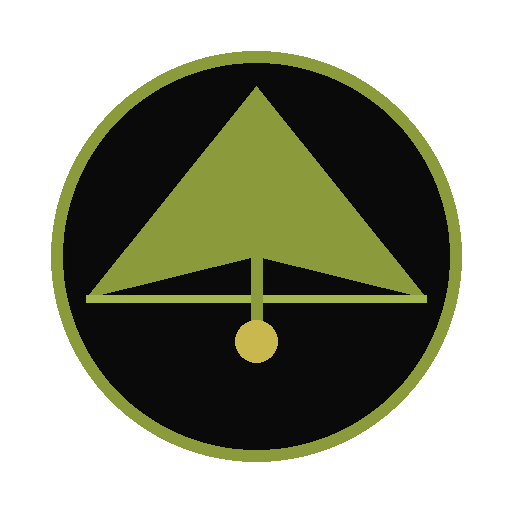
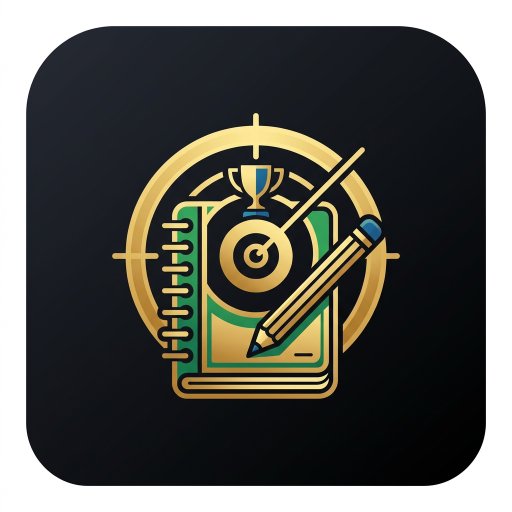
feat: adicionar questoes em branco e anuladas nos simulados cebraspe e atualizar icone do PWA

diff --git a/app-simulados.js b/app-simulados.js
@@ -28,9 +28,11 @@ function renderSimuladosList() {
         if (hasResult) {
             if (s.tipo === 'certo_errado') {
                 const erros = s.resultado.erros || 0;
-                const notaLiquida = s.resultado.acertos - erros;
+                const branco = s.resultado.branco || 0;
+                const anuladas = s.resultado.anuladas || 0;
+                const notaLiquida = s.resultado.acertos - erros + anuladas;
                 media = Math.round((notaLiquida / s.resultado.totalQ) * 100);
-                scoreText = `${s.resultado.acertos} C | ${erros} E | Líquido: ${notaLiquida}`;
+                scoreText = `${s.resultado.acertos} C | ${erros} E | ${branco} B | ${anuladas} Anul. | Líquido: ${notaLiquida}`;
             } else {
                 media = Math.round((s.resultado.acertos / s.resultado.totalQ) * 100);
                 scoreText = `${s.resultado.acertos}/${s.resultado.totalQ} acertos`;
@@ -117,7 +119,7 @@ document.getElementById('btnSalvarSimulado').addEventListener('click', () => {
         duracao: parseInt(document.getElementById('simuladoDuracaoInput').value) || 5,
         totalQuestoes: parseInt(document.getElementById('simuladoQuestoesInput').value) || 120,
         resultado: null,
-        disciplinas: conc.disciplinas.map(d => ({ nome: d.nome, questoes: 0, acertos: 0, erros: 0 }))
+        disciplinas: conc.disciplinas.map(d => ({ nome: d.nome, questoes: 0, acertos: 0, erros: 0, branco: 0, anuladas: 0 }))
     };
 
     if (editingSimuladoId) {
@@ -144,14 +146,18 @@ function openResultView(simId) {
 
     const isCebraspe = sim.tipo === 'certo_errado';
     document.getElementById('resultErrosContainer').style.display = isCebraspe ? 'block' : 'none';
+    document.getElementById('resultBrancoContainer').style.display = isCebraspe ? 'block' : 'none';
+    document.getElementById('resultAnuladasContainer').style.display = isCebraspe ? 'block' : 'none';
     document.getElementById('resultNotaLiquidaContainer').style.display = isCebraspe ? 'block' : 'none';
     document.getElementById('resultMediaLabel').textContent = isCebraspe ? 'Aproveitamento' : 'Nota / Média';
 
     // Fill general result
-    const res = sim.resultado || { totalQ: sim.totalQuestoes || 120, acertos: 0, erros: 0 };
+    const res = sim.resultado || { totalQ: sim.totalQuestoes || 120, acertos: 0, erros: 0, branco: 0, anuladas: 0 };
     document.getElementById('resultTotalQ').value = res.totalQ;
     document.getElementById('resultAcertos').value = res.acertos;
     document.getElementById('resultErros').value = res.erros || 0;
+    document.getElementById('resultBranco').value = res.branco || 0;
+    document.getElementById('resultAnuladas').value = res.anuladas || 0;
     updateResultMedia();
 
     // Fill per-subject
@@ -169,7 +175,7 @@ function renderResultMaterias(sim) {
 
     const isCebraspe = sim.tipo === 'certo_errado';
     if (isCebraspe) {
-        thead.innerHTML = `<th>Matéria</th><th>Questões</th><th>Acertos</th><th>Erros</th><th>N. Líquida</th><th>Média</th>`;
+        thead.innerHTML = `<th>Matéria</th><th>Questões</th><th>Acertos</th><th>Erros</th><th>Em Branco</th><th>Anuladas</th><th>N. Líquida</th><th>Média</th>`;
     } else {
         thead.innerHTML = `<th>Matéria</th><th>Questões</th><th>Acertos</th><th>Média</th>`;
     }
@@ -180,16 +186,20 @@ function renderResultMaterias(sim) {
         const q = d.questoes || 0;
         const a = d.acertos || 0;
         const e = d.erros || 0;
+        const b = d.branco || 0;
+        const an = d.anuladas || 0;
         let media = 0;
         let trHtml = '';
 
         if (isCebraspe) {
-            const nl = a - e;
+            const nl = a - e + an;
             media = q > 0 ? Math.round((nl / q) * 100) : 0;
             trHtml = `<td>${d.nome}</td>
-                <td><input type="number" class="input-mentor result-mat-q" data-idx="${i}" value="${q}" min="0" style="width:70px;"></td>
-                <td><input type="number" class="input-mentor result-mat-a" data-idx="${i}" value="${a}" min="0" style="width:70px;"></td>
-                <td><input type="number" class="input-mentor result-mat-e" data-idx="${i}" value="${e}" min="0" style="width:70px;"></td>
+                <td><input type="number" class="input-mentor result-mat-q" data-idx="${i}" value="${q}" min="0" style="width:60px;"></td>
+                <td><input type="number" class="input-mentor result-mat-a" data-idx="${i}" value="${a}" min="0" style="width:60px;"></td>
+                <td><input type="number" class="input-mentor result-mat-e" data-idx="${i}" value="${e}" min="0" style="width:60px;"></td>
+                <td><input type="number" class="input-mentor result-mat-b" data-idx="${i}" value="${b}" min="0" style="width:60px;"></td>
+                <td><input type="number" class="input-mentor result-mat-an" data-idx="${i}" value="${an}" min="0" style="width:60px;"></td>
                 <td><span class="nota-liquida-badge" style="font-weight:700;color:var(--accent-yellow);">${nl}</span></td>
                 <td><span class="media-badge ${media >= 70 ? 'good' : media >= 50 ? 'average' : 'bad'}">${media}%</span></td>`;
         } else {
@@ -206,7 +216,7 @@ function renderResultMaterias(sim) {
     });
 
     // Live update per-materia
-    tbody.querySelectorAll('.result-mat-q, .result-mat-a, .result-mat-e').forEach(inp => {
+    tbody.querySelectorAll('.result-mat-q, .result-mat-a, .result-mat-e, .result-mat-b, .result-mat-an').forEach(inp => {
         inp.addEventListener('input', () => {
             const idx = parseInt(inp.dataset.idx);
             const sim = simulados.find(s => s.id === resultSimuladoId);
@@ -215,12 +225,14 @@ function renderResultMaterias(sim) {
             if (inp.classList.contains('result-mat-q')) sim.disciplinas[idx].questoes = parseInt(inp.value) || 0;
             else if (inp.classList.contains('result-mat-a')) sim.disciplinas[idx].acertos = parseInt(inp.value) || 0;
             else if (inp.classList.contains('result-mat-e')) sim.disciplinas[idx].erros = parseInt(inp.value) || 0;
+            else if (inp.classList.contains('result-mat-b')) sim.disciplinas[idx].branco = parseInt(inp.value) || 0;
+            else if (inp.classList.contains('result-mat-an')) sim.disciplinas[idx].anuladas = parseInt(inp.value) || 0;
 
             // Update media badge
-            const q = sim.disciplinas[idx].questoes || 0, a = sim.disciplinas[idx].acertos || 0, e = sim.disciplinas[idx].erros || 0;
+            const q = sim.disciplinas[idx].questoes || 0, a = sim.disciplinas[idx].acertos || 0, e = sim.disciplinas[idx].erros || 0, b = sim.disciplinas[idx].branco || 0, an = sim.disciplinas[idx].anuladas || 0;
             let m = 0;
             if (isCebraspe) {
-                const nl = a - e;
+                const nl = a - e + an;
                 m = q > 0 ? Math.round((nl / q) * 100) : 0;
                 inp.closest('tr').querySelector('.nota-liquida-badge').textContent = nl;
             } else {
@@ -240,10 +252,12 @@ function updateResultMedia() {
     const total = parseInt(document.getElementById('resultTotalQ').value) || 0;
     const acertos = parseInt(document.getElementById('resultAcertos').value) || 0;
     const erros = isCebraspe ? (parseInt(document.getElementById('resultErros').value) || 0) : 0;
+    const branco = isCebraspe ? (parseInt(document.getElementById('resultBranco').value) || 0) : 0;
+    const anuladas = isCebraspe ? (parseInt(document.getElementById('resultAnuladas').value) || 0) : 0;
 
     let pct = 0;
     if (isCebraspe) {
-        const nl = acertos - erros;
+        const nl = acertos - erros + anuladas;
         document.getElementById('resultNotaLiquida').textContent = nl;
         pct = total > 0 ? Math.round((nl / total) * 100) : 0;
     } else {
@@ -256,6 +270,8 @@ function updateResultMedia() {
 document.getElementById('resultTotalQ').addEventListener('input', updateResultMedia);
 document.getElementById('resultAcertos').addEventListener('input', updateResultMedia);
 document.getElementById('resultErros').addEventListener('input', updateResultMedia);
+document.getElementById('resultBranco').addEventListener('input', updateResultMedia);
+document.getElementById('resultAnuladas').addEventListener('input', updateResultMedia);
 document.getElementById('resultPorMateriaToggle').addEventListener('change', function() {
     document.getElementById('resultPorMateriaContent').style.display = this.checked ? 'block' : 'none';
 });
@@ -270,6 +286,8 @@ document.getElementById('btnSalvarResultado').addEventListener('click', () => {
         totalQ: parseInt(document.getElementById('resultTotalQ').value) || 0,
         acertos: parseInt(document.getElementById('resultAcertos').value) || 0,
         erros: isCebraspe ? (parseInt(document.getElementById('resultErros').value) || 0) : 0,
+        branco: isCebraspe ? (parseInt(document.getElementById('resultBranco').value) || 0) : 0,
+        anuladas: isCebraspe ? (parseInt(document.getElementById('resultAnuladas').value) || 0) : 0,
         dataRegistro: new Date().toISOString()
     };
     // Save per-materia
@@ -278,6 +296,8 @@ document.getElementById('btnSalvarResultado').addEventListener('click', () => {
         document.querySelectorAll('.result-mat-a').forEach(inp => { sim.disciplinas[parseInt(inp.dataset.idx)].acertos = parseInt(inp.value) || 0; });
         if (isCebraspe) {
             document.querySelectorAll('.result-mat-e').forEach(inp => { sim.disciplinas[parseInt(inp.dataset.idx)].erros = parseInt(inp.value) || 0; });
+            document.querySelectorAll('.result-mat-b').forEach(inp => { sim.disciplinas[parseInt(inp.dataset.idx)].branco = parseInt(inp.value) || 0; });
+            document.querySelectorAll('.result-mat-an').forEach(inp => { sim.disciplinas[parseInt(inp.dataset.idx)].anuladas = parseInt(inp.value) || 0; });
         }
     }
     DB.save('simulados', simulados);
@@ -297,7 +317,7 @@ function renderStats() {
     let totalPontosLiquidos = 0;
     withResult.forEach(sim => {
         if (sim.tipo === 'certo_errado') {
-            totalPontosLiquidos += (sim.resultado.acertos - (sim.resultado.erros || 0));
+            totalPontosLiquidos += (sim.resultado.acertos - (sim.resultado.erros || 0) + (sim.resultado.anuladas || 0));
         } else {
             totalPontosLiquidos += sim.resultado.acertos;
         }
@@ -323,11 +343,17 @@ function renderStats() {
             materiaMap[d.nome].acertos += d.acertos;
             
             const e = d.erros || 0;
+            const b = d.branco || 0;
+            const an = d.anuladas || 0;
             materiaMap[d.nome].erros += e;
-            const pts = isCebraspe ? (d.acertos - e) : d.acertos;
+            if (!materiaMap[d.nome].hasOwnProperty('branco')) materiaMap[d.nome].branco = 0;
+            if (!materiaMap[d.nome].hasOwnProperty('anuladas')) materiaMap[d.nome].anuladas = 0;
+            materiaMap[d.nome].branco += b;
+            materiaMap[d.nome].anuladas += an;
+            const pts = isCebraspe ? (d.acertos - e + an) : d.acertos;
             materiaMap[d.nome].pontos += pts;
             
-            materiaMap[d.nome].simulados.push({ q: d.questoes, a: d.acertos, e: e, tipo: sim.tipo });
+            materiaMap[d.nome].simulados.push({ q: d.questoes, a: d.acertos, e: e, b: b, an: an, tipo: sim.tipo });
         });
     });
 
@@ -342,8 +368,8 @@ function renderStats() {
             const last = m.simulados[m.simulados.length - 1];
             const prev = m.simulados[m.simulados.length - 2];
             
-            const lastPts = last.tipo === 'certo_errado' ? (last.a - last.e) : last.a;
-            const prevPts = prev.tipo === 'certo_errado' ? (prev.a - prev.e) : prev.a;
+            const lastPts = last.tipo === 'certo_errado' ? (last.a - last.e + (last.an || 0)) : last.a;
+            const prevPts = prev.tipo === 'certo_errado' ? (prev.a - prev.e + (prev.an || 0)) : prev.a;
             
             const lastPct = Math.round((lastPts / last.q) * 100);
             const prevPct = Math.round((prevPts / prev.q) * 100);

diff --git a/index.html b/index.html
@@ -837,6 +837,14 @@
                             <label class="meta-label">Erros</label>
                             <input type="number" class="input-mentor" id="resultErros" min="0" style="width:100%;">
                         </div>
+                        <div class="form-group" id="resultBrancoContainer" style="display:none;">
+                            <label class="meta-label">Em Branco</label>
+                            <input type="number" class="input-mentor" id="resultBranco" min="0" style="width:100%;">
+                        </div>
+                        <div class="form-group" id="resultAnuladasContainer" style="display:none;">
+                            <label class="meta-label">Anuladas</label>
+                            <input type="number" class="input-mentor" id="resultAnuladas" min="0" style="width:100%;">
+                        </div>
                         <div class="form-group" id="resultNotaLiquidaContainer" style="display:none;">
                             <label class="meta-label">Nota Líquida</label>
                             <div class="stat-value" id="resultNotaLiquida" style="font-size:1.5rem;color:var(--accent-yellow);padding-top:10px;">0</div>

diff --git a/app-metas.js b/app-metas.js
@@ -339,7 +339,7 @@ function autoAssociateSimulados(meta) {
             if (s.concursoId === meta.concursoId && s.resultado && s.resultado.totalQ > 0) {
                 const sDate = new Date(s.data + 'T12:00:00');
                 if (sDate >= periodStart && sDate < periodEnd) {
-                    const score = isCebraspe ? (s.resultado.acertos - (s.resultado.erros || 0)) : s.resultado.acertos;
+                    const score = isCebraspe ? (s.resultado.acertos - (s.resultado.erros || 0) + (s.resultado.anuladas || 0)) : s.resultado.acertos;
                     if (score > bestMockScore) {
                         bestMockScore = score;
                         bestMock = s;
@@ -408,7 +408,7 @@ function renderMilestoneCards(meta, pLabelHeader, pLabelSingular) {
         let mockOptions = '<option value="">— Sem simulado —</option>';
         const relevantMocks = simulados.filter(s => s.concursoId === meta.concursoId && s.resultado && s.resultado.totalQ > 0);
         relevantMocks.forEach(s => {
-            const score = isCebraspe ? (s.resultado.acertos - (s.resultado.erros || 0)) : s.resultado.acertos;
+            const score = isCebraspe ? (s.resultado.acertos - (s.resultado.erros || 0) + (s.resultado.anuladas || 0)) : s.resultado.acertos;
             mockOptions += `<option value="${s.id}" ${w.simuladoId === s.id ? 'selected' : ''}>${s.nome} (${score} pts)</option>`;
         });
         
@@ -464,7 +464,7 @@ function renderMilestoneCards(meta, pLabelHeader, pLabelSingular) {
                 const s = simulados.find(x => x.id === sId);
                 if (s) {
                     w.simuladoId = sId;
-                    w.notaRegistrada = isCebraspe ? (s.resultado.acertos - (s.resultado.erros || 0)) : s.resultado.acertos;
+                    w.notaRegistrada = isCebraspe ? (s.resultado.acertos - (s.resultado.erros || 0) + (s.resultado.anuladas || 0)) : s.resultado.acertos;
                     w.overrideManual = true;
                 }
             }

diff --git a/sw.js b/sw.js
@@ -1,6 +1,6 @@
 // ===== PLANEJA CONCURSO - Service Worker (PWA) =====
 // ALWAYS bump this version on deploy to trigger updates
-const SW_VERSION = '1.5.6';
+const SW_VERSION = '1.5.7';
 const CACHE_NAME = 'planeja-concurso-v3-' + SW_VERSION;
 const ASSETS = [
     './',